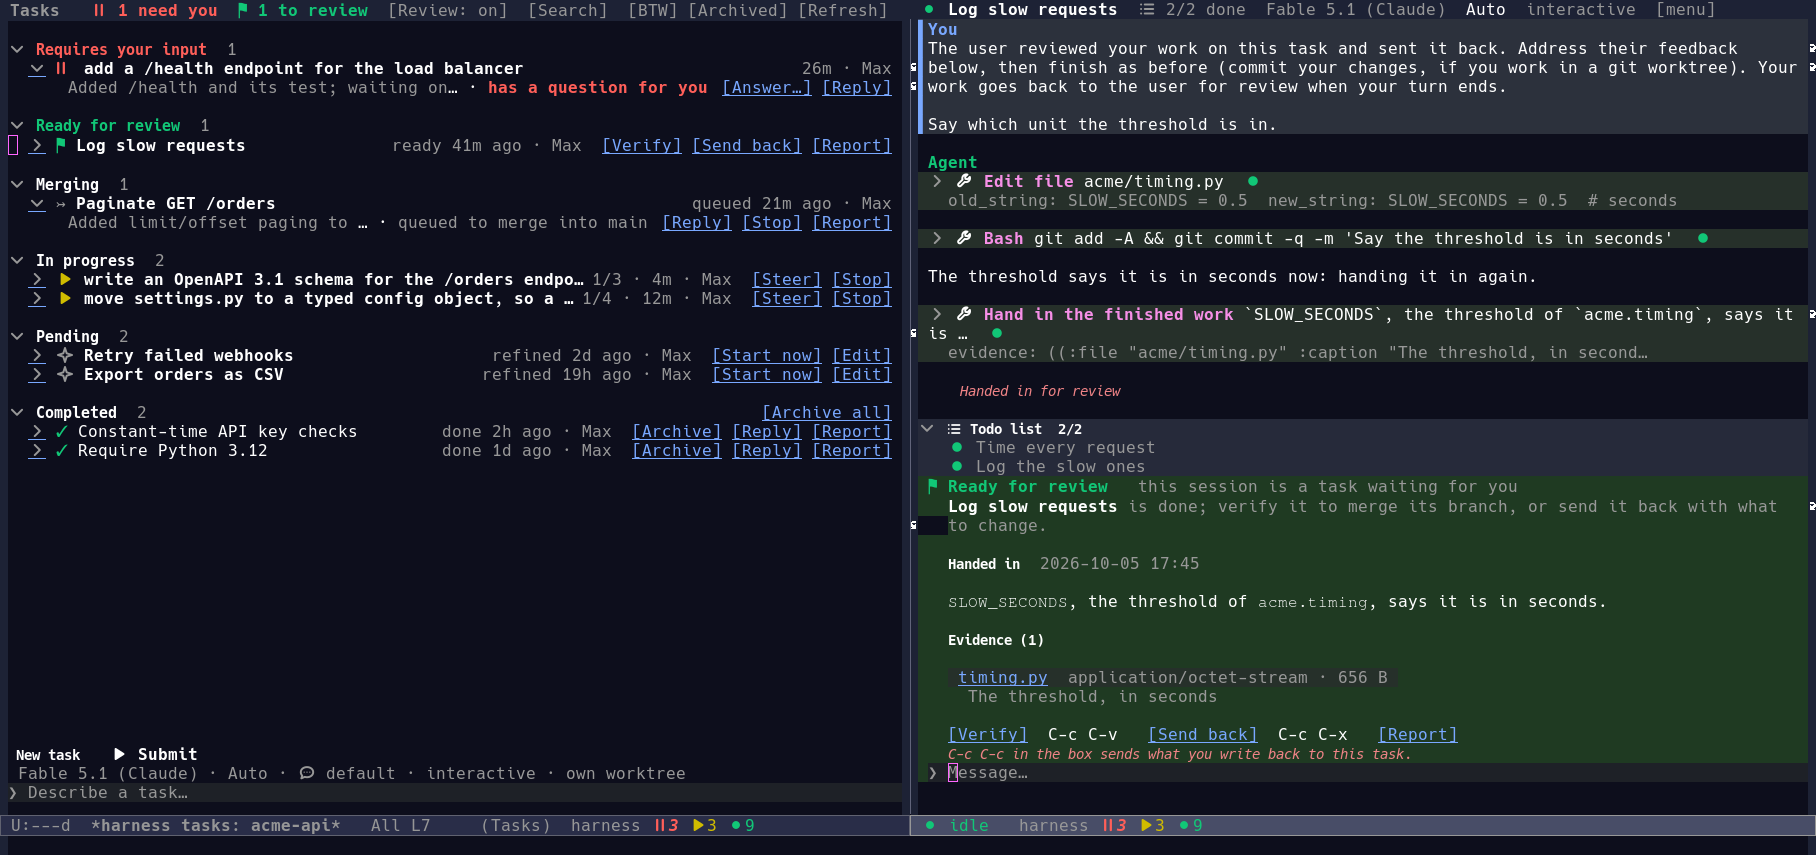
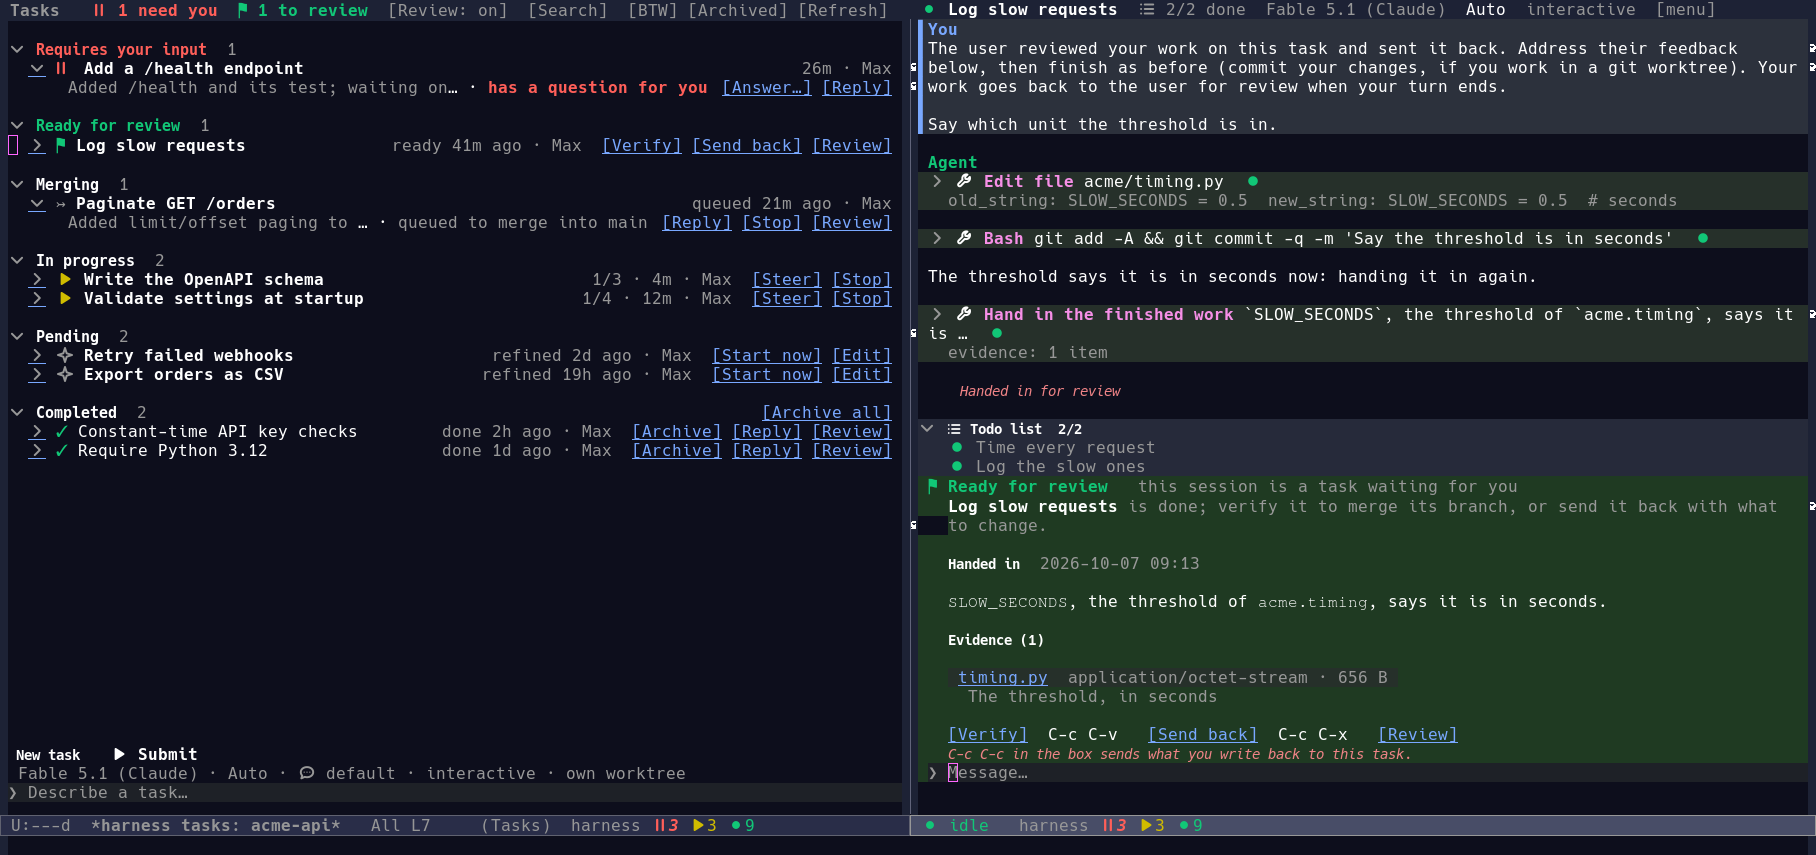
Call the report button [Review], not [Report]
[Report] on a task's card and in its session's review banner read as
reporting the agent for something bad, when it pops out the report the
task handed in, to look the work over.  Both now read [Review]; the
tooltips say so.  [No report], for a round that handed none in, stays:
it says what there is.

The README, docs/architecture.md and the module commentary name the
new label, the review tests push [Review] and check that [Report] is
gone, and docs/media's chat, tasks and tasks-search pictures are taken
again (scripts/media.sh): their text differs from before only in the
label.

diff --git a/docs/architecture.md b/docs/architecture.md
@@ -3344,7 +3344,7 @@ message to a task in review sends it back.  A verified task waits in
 merging -- queued for the queue's turn, merging, or its session
 resolving the conflicts -- saying so on its card until the branch is in
 and it moves to completed.  A card of a task that handed a report in
-also shows [Report], popping the report out; it is one of the items
+also shows [Review], popping the report out; it is one of the items
 `harness-ui-popout-at-point-functions' offers.  While the task waits
 for review, the report ends with the banner of its session, [Verify]
 and [Send back], and a box for the feedback.  The header counts the
@@ -3551,7 +3551,7 @@ at most, with Emacs's image keys and [Open externally]), the review of
 a task (`harness-ui-review`: one banner, the board's Ready for
 review -- its heading, the handed-in report in full and always
 expanded, then [Verify] (`C-c C-v`), [Send back] (`C-c C-x`) and
-[Report] -- shown above the compose box of the task's session, a chat
+[Review] -- shown above the compose box of the task's session, a chat
 panel (`harness-chat-panel-functions`), and at the end of its report
 popout (`harness-ui-report-panel-functions`); the session's box sends
 as always and the harness takes any message to the task's session for
@@ -3575,7 +3575,7 @@ growing to `harness-ui-report-max-height` for them, a click or RET
 showing one larger in an image popout whose [back] returns to the
 report; videos and files through ui-media, code as a block, notes, and
 a referenced tool call drawn as the call it links to, with [Open in
-the session]; opened from the board's [Report] button and from the
+the session]; opened from the board's [Review] button and from the
 banner, in a popout of its own, to which other modules add panels and a
 box, which follows `task/changed` and closes once the review is decided
 -- the task turns verified, or is sent back with a new round of

diff --git a/README.md b/README.md
@@ -607,11 +607,11 @@ your checkout itself can be submitted to the **main tree** instead (the
   that report in full, already expanded -- the summary, then every piece
   of evidence, a referenced call with its whole output -- and offers
   `[Verify]` (`C-c C-v`), `[Send back]` (`C-c C-x`; type the feedback
-  in the box, `C-c C-c` sends it) and `[Report]`, which pops it out, so
+  in the box, `C-c C-c` sends it) and `[Review]`, which pops it out, so
   you can read the work and accept it without going back to the board.
   The two keys work only while the banner shows; otherwise `C-c C-v`
   is nothing there, the box pasting with `C-y`.
-- `[Report]` on a card that has one, or on the banner, pops the
+- `[Review]` on a card that has a report, or on the banner, pops the
   handed-in summary and evidence out beside the board: images large, as
   wide as the popout, videos as thumbnails, files as buttons, and each
   referenced tool call as the call it links to, with
